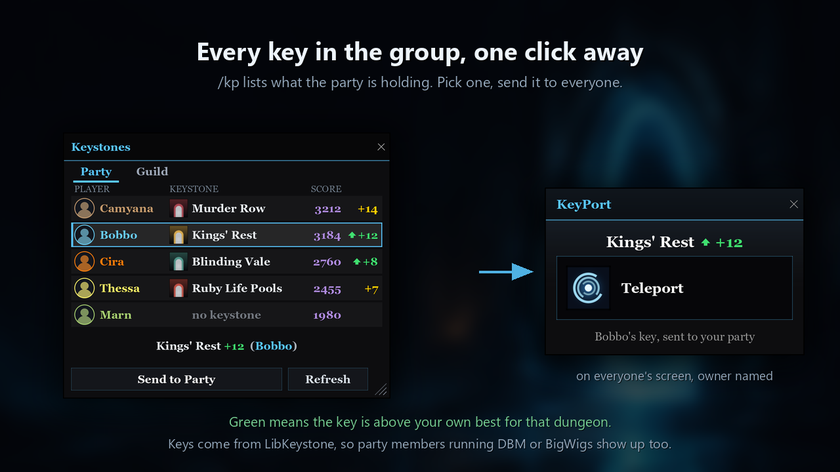
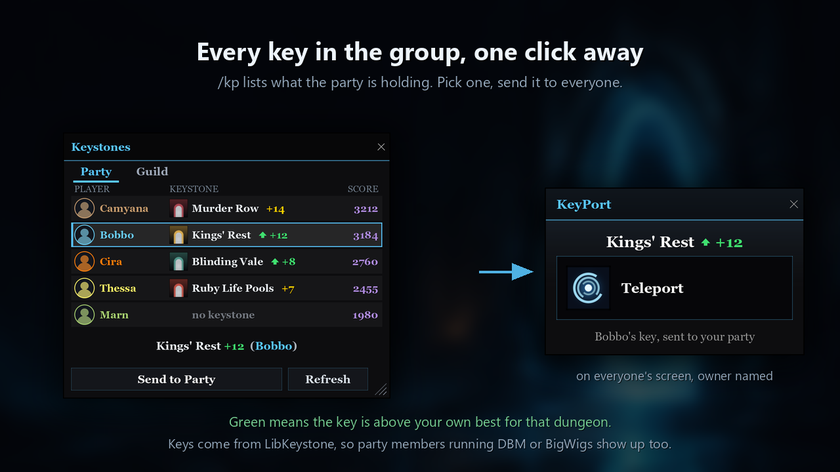
Move the keystone level next to the dungeon name
The level had a column of its own on the right, which squeezed the name column
enough to clip "The Blinding Vale". It now trails the name, the row font drops
a point, and the name gives way to the short dungeon code when the pair will
not fit, so the level is never the part that gets truncated.

diff --git a/design/make_art.py b/design/make_art.py
@@ -59,7 +59,8 @@ PANEL_H = FOOTER_Y + FOOTER_H + 9
 LIST_W, ROW_H, MAX_ROWS = 320, 26, 5
 AVATAR_SZ, DUNGEON_SZ = 20, 18
 LIST_PAD, TAB_H, COLHDR_H = 8, 22, 14
-NAME_W, SCORE_W, LEVEL_W = 64, 36, 34
+NAME_W, SCORE_W = 64, 36
+ROW_FONT = 10
 
 # --- palette ---------------------------------------------------------------
 ACCENT = (89, 199, 255)
@@ -319,7 +320,7 @@ def picker(scale=3, rows=None, chosen=1, tab="Party"):
     f_title = font(UI_FONT, 11 * S)
     f_tab = font(UI_FONT, 11 * S)
     f_col = font(UI_FONT_REG, 9 * S)
-    f_row = font(UI_FONT, 11 * S)
+    f_row = font(UI_FONT, ROW_FONT * S)
     f_choice = font(UI_FONT, 11 * S)
     f_btn = font(UI_FONT, 11 * S)
 
@@ -351,8 +352,7 @@ def picker(scale=3, rows=None, chosen=1, tab="Party"):
     x_name = x0 + (3 + AVATAR_SZ + 5) * S
     x_icon = x_name + (NAME_W + 4) * S
     x_dungeon = x_icon + (DUNGEON_SZ + 4) * S
-    right_level = x1 - 4 * S
-    right_score = right_level - (LEVEL_W + 2) * S
+    right_score = x1 - 4 * S
 
     col_y = (HEADER_H + TAB_H + 2) * S
     text(img, (x0 + 3 * S, col_y), "PLAYER", f_col, (115, 128, 143), offset=S / 4)
@@ -381,17 +381,18 @@ def picker(scale=3, rows=None, chosen=1, tab="Party"):
         text(img, (x_dungeon, mid), dungeon, f_row,
              (235, 240, 245) if keyed else (115, 120, 128), anchor="lm", offset=S / 4)
 
+        if keyed:
+            cursor = x_dungeon + width_of(dungeon, f_row) + 7 * S
+            if above:
+                mark = up_arrow(round(9 * S), ABOVE)
+                img.alpha_composite(mark, (round(cursor), round(mid - mark.height / 2)))
+                cursor += mark.width + 2 * S
+            text(img, (cursor, mid), "+%d" % level, f_row, ABOVE if above else GOLD,
+                 anchor="lm", offset=S / 4)
+
         if score:
             text(img, (right_score, mid), str(score), f_row, (176, 140, 224),
                  anchor="rm", offset=S / 4)
-        if keyed:
-            text(img, (right_level, mid), "+%d" % level, f_row, ABOVE if above else GOLD,
-                 anchor="rm", offset=S / 4)
-            if above:
-                mark = up_arrow(round(9 * S), ABOVE)
-                lvl_w = width_of("+%d" % level, f_row)
-                img.alpha_composite(mark, (round(right_level - lvl_w - mark.width - S),
-                                           round(mid - mark.height / 2)))
 
     # selection line
     choice_y = (top + 10) * S

diff --git a/CHANGELOG.md b/CHANGELOG.md
@@ -1,5 +1,15 @@
 # Changelog
 
+## 1.3.3
+
+- The keystone level now sits beside the dungeon name rather than in a column
+  of its own, which frees the width the name was being clipped in.
+- Row text is a point smaller.
+- When a name and its level will not fit together, the short dungeon code
+  stands in rather than the level being cut off. The window measures the text
+  instead of guessing from its width, so it adapts to long names and to
+  languages with longer ones.
+
 ## 1.3.2
 
 - **Fixed `/keys` still opening another addon's window.** Writing our own entry
